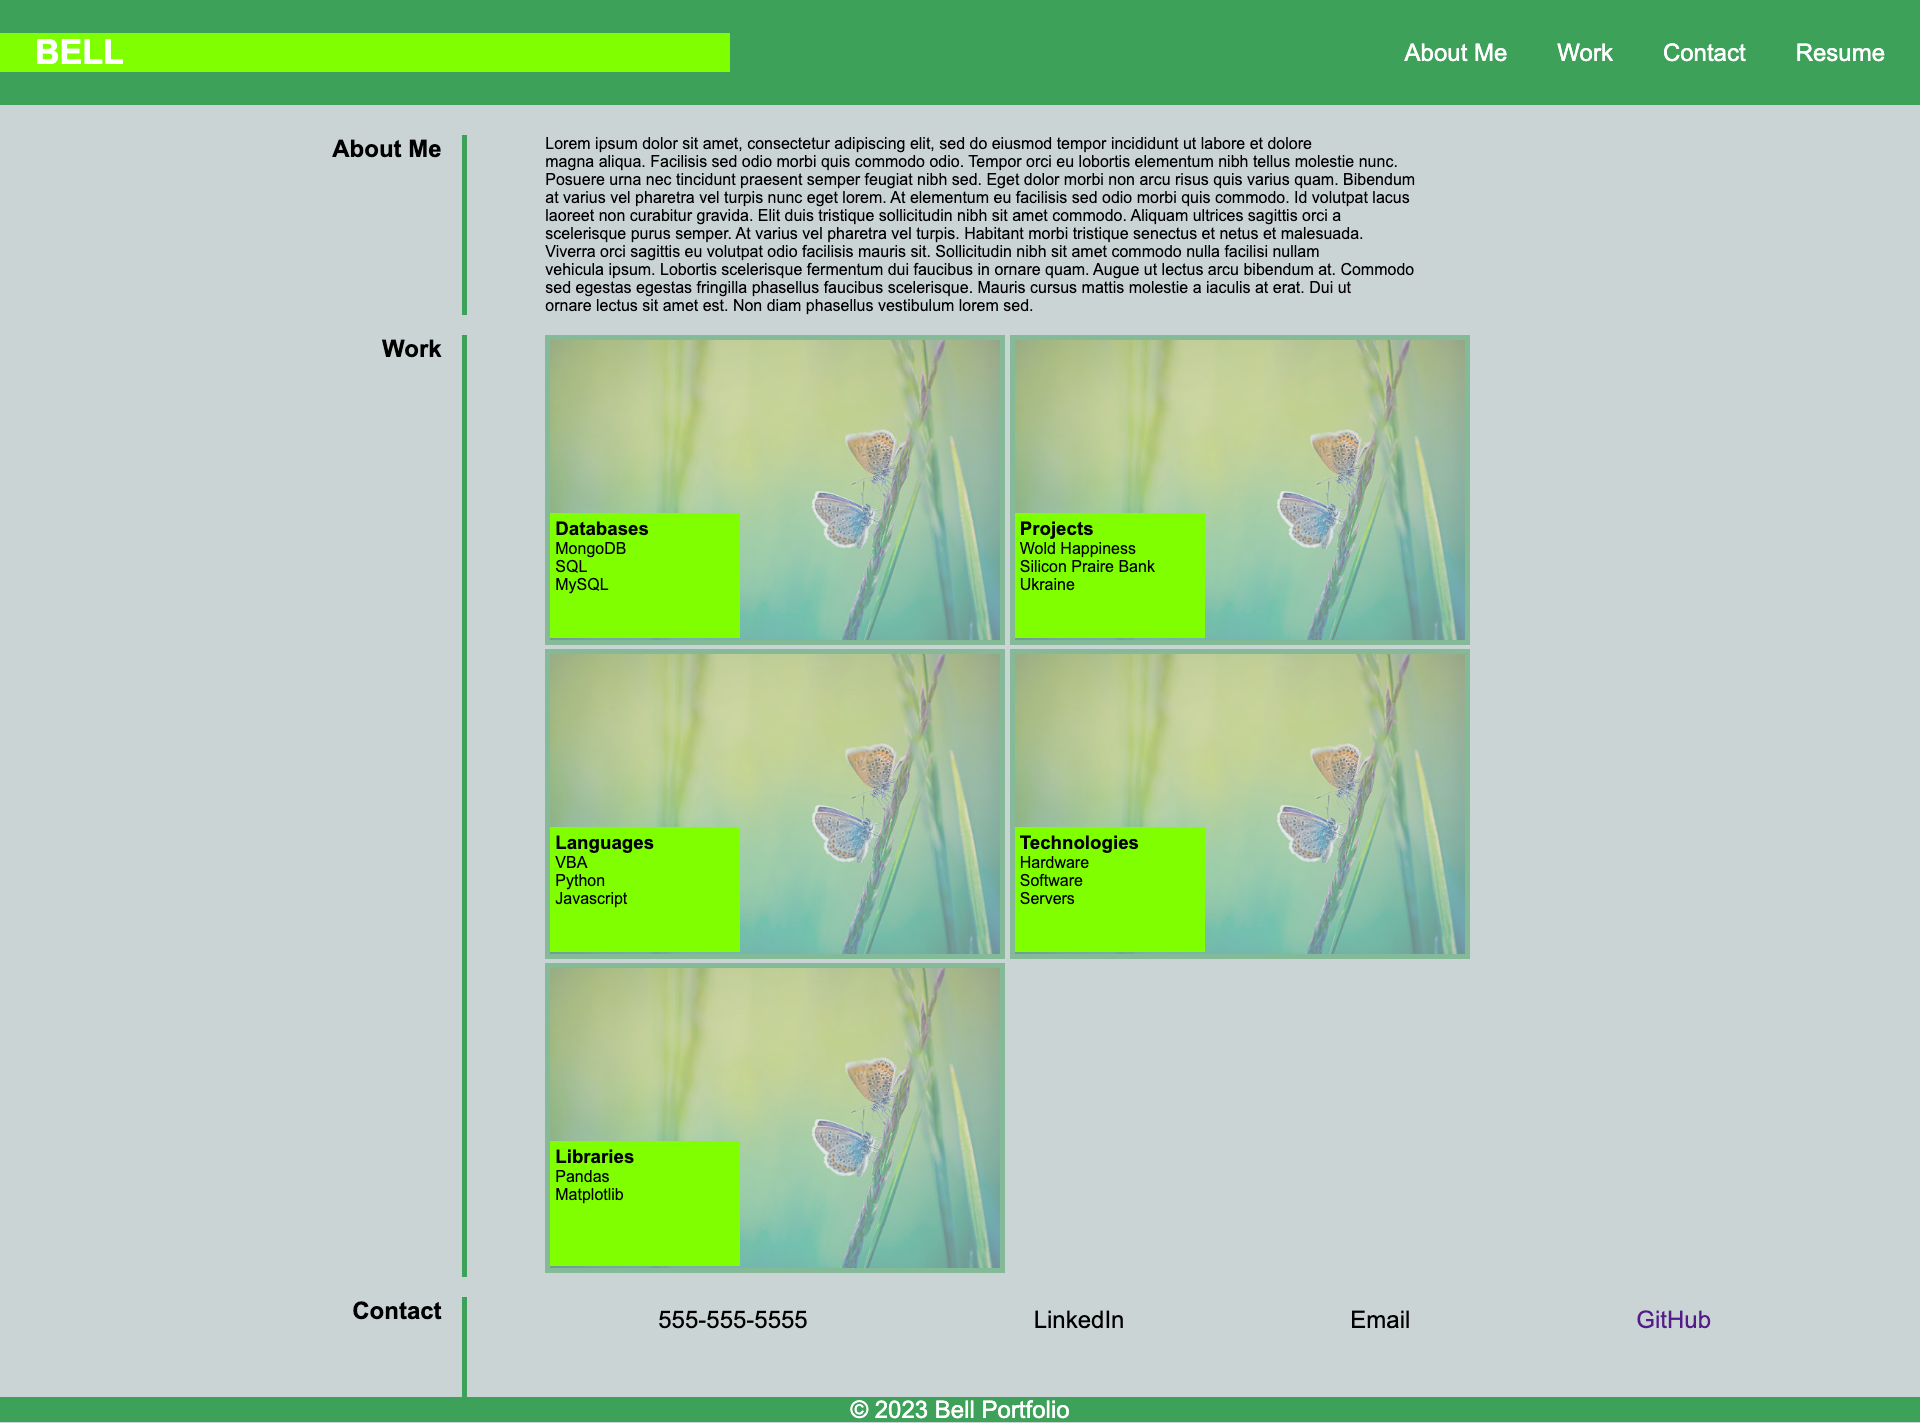
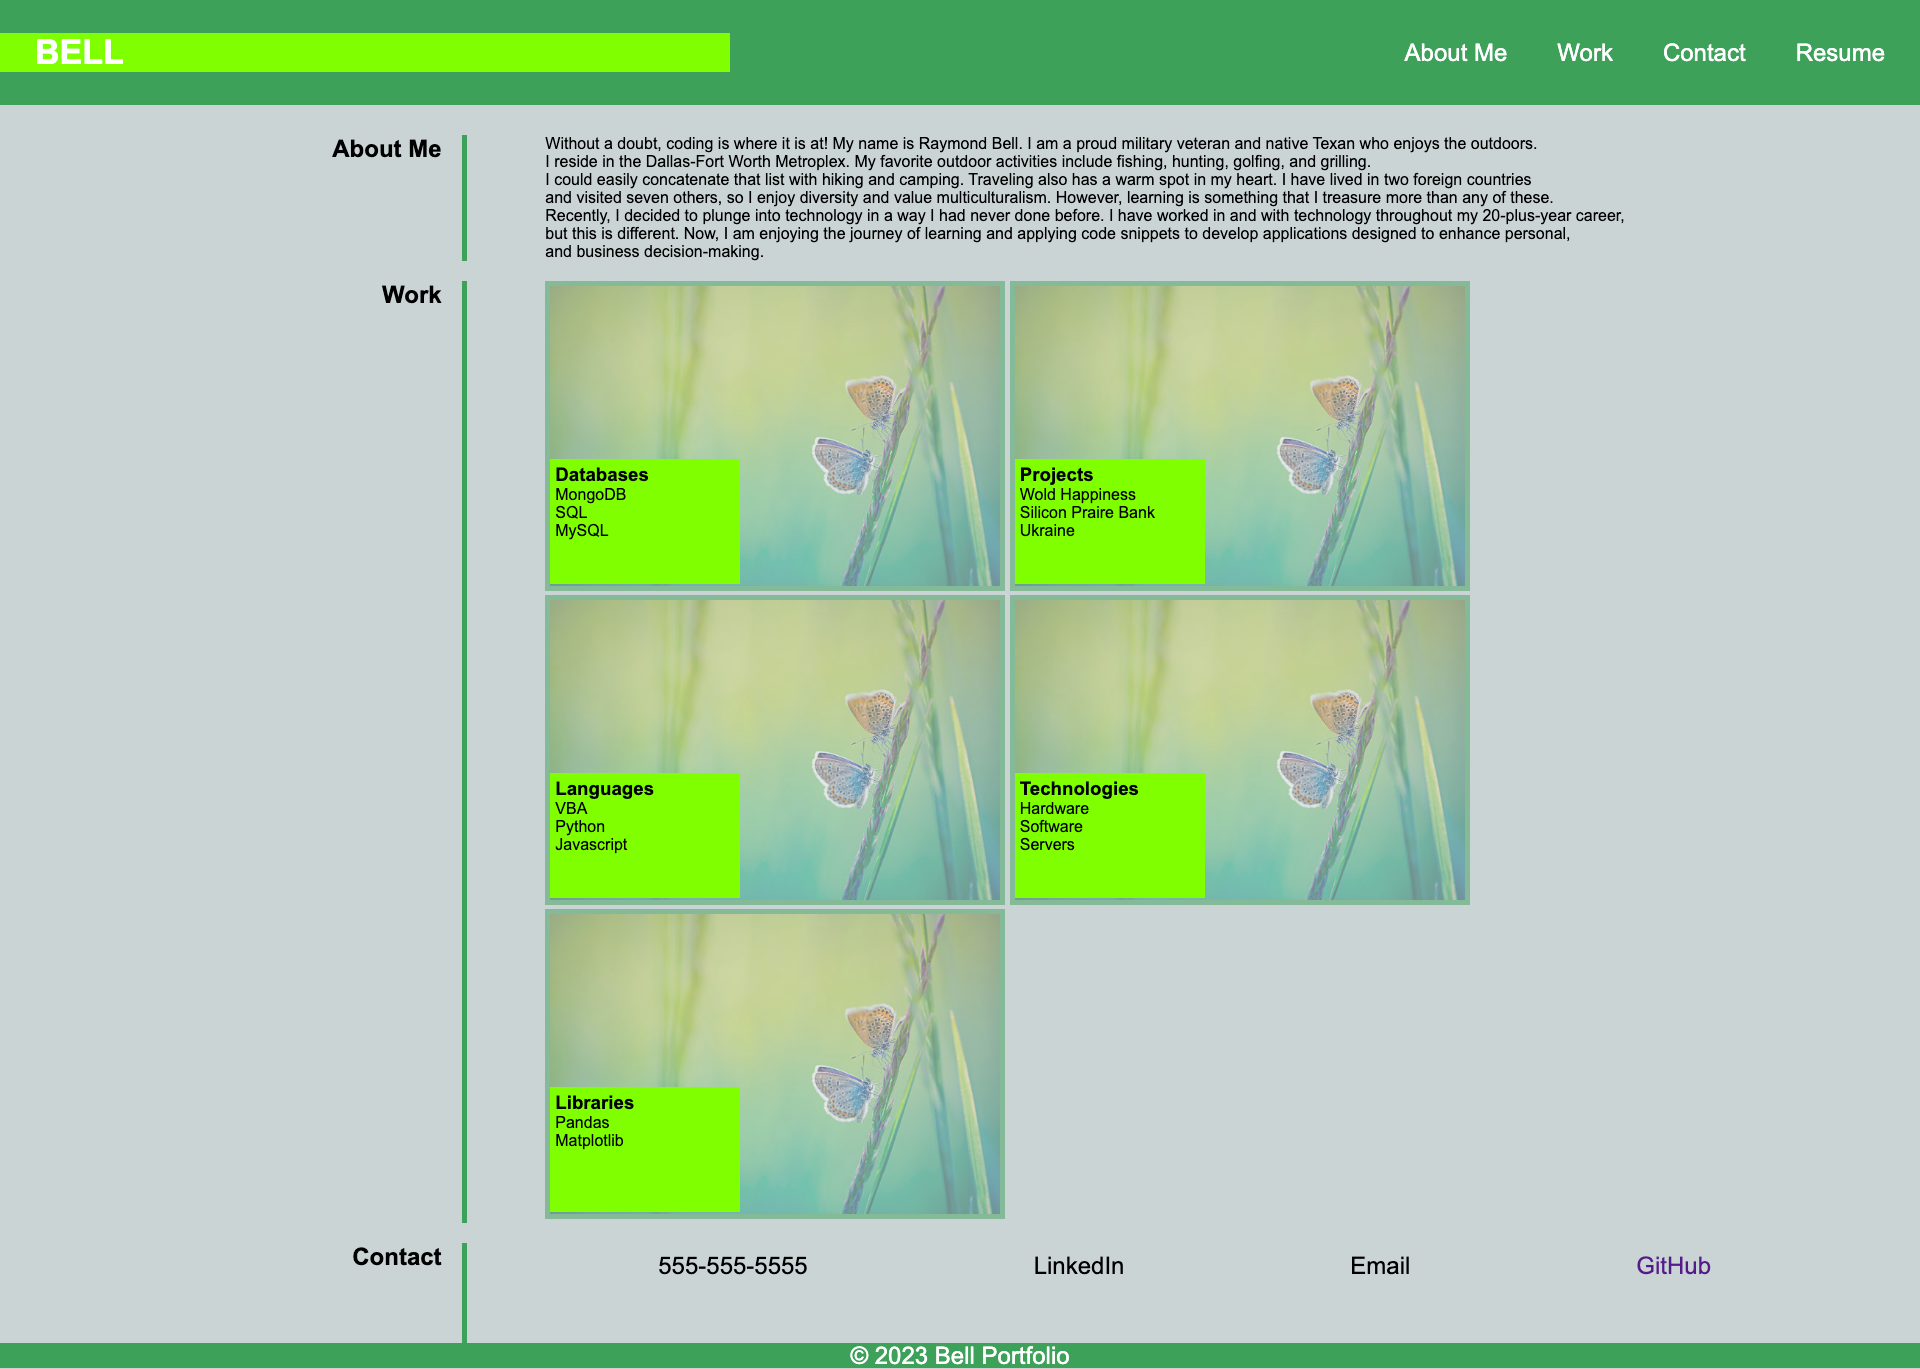
updated about me

diff --git a/index.html b/index.html
@@ -4,22 +4,21 @@
     <meta charset="UTF-8" />
     <meta name="viewport" content="width=device-width, initial-scale=1.0" />
     <link rel="stylesheet" href="styles.css" />
-    <title>Portfolio</title>
+    <title>Bell Portfolio</title>
   </head>
   <!-- Start of navigation section-->
   <header>
-    <nav id="nav-container" >
+    <nav id="nav-container">
       <div id="name-container">
         <h2 id="name">BELL</h2>
       </div>
-      
-        <ul class="nav-list">
-          <a href="#about"><li class="items">About Me</li></a>
-          <a href="#projects"><li class="items">Work</li></a>
-          <a href="#contacts"> <li class="items">Contact</li></a>
-          <a href="#"><li class="items">Resume</li></a>
-        </ul>
-      
+
+      <ul class="nav-list">
+        <a href="#about"><li class="items">About Me</li></a>
+        <a href="#projects"><li class="items">Work</li></a>
+        <a href="#contacts"> <li class="items">Contact</li></a>
+        <a href="#"><li class="items">Resume</li></a>
+      </ul>
     </nav>
   </header>
   <!-- End of navigation section-->
@@ -31,25 +30,24 @@
         <h2>About Me</h2>
         <div>
           <p>
-            Lorem ipsum dolor sit amet, consectetur adipiscing elit, sed do
-            eiusmod tempor incididunt ut labore et dolore <br />
-            magna aliqua. Facilisis sed odio morbi quis commodo odio. Tempor
-            orci eu lobortis elementum nibh tellus molestie nunc.<br />
-            Posuere urna nec tincidunt praesent semper feugiat nibh sed. Eget
-            dolor morbi non arcu risus quis varius quam. Bibendum <br />
-            at varius vel pharetra vel turpis nunc eget lorem. At elementum eu
-            facilisis sed odio morbi quis commodo. Id volutpat lacus <br />
-            laoreet non curabitur gravida. Elit duis tristique sollicitudin nibh
-            sit amet commodo. Aliquam ultrices sagittis orci a <br />
-            scelerisque purus semper. At varius vel pharetra vel turpis.
-            Habitant morbi tristique senectus et netus et malesuada. <br />
-            Viverra orci sagittis eu volutpat odio facilisis mauris sit.
-            Sollicitudin nibh sit amet commodo nulla facilisi nullam <br />
-            vehicula ipsum. Lobortis scelerisque fermentum dui faucibus in
-            ornare quam. Augue ut lectus arcu bibendum at. Commodo <br />
-            sed egestas egestas fringilla phasellus faucibus scelerisque. Mauris
-            cursus mattis molestie a iaculis at erat. Dui ut <br />
-            ornare lectus sit amet est. Non diam phasellus vestibulum lorem sed.
+            Without a doubt, coding is where it is at! My name is Raymond Bell.
+            I am a proud military veteran and native Texan who enjoys the
+            outdoors. <br />
+            I reside in the Dallas-Fort Worth Metroplex. My favorite outdoor
+            activities include fishing, hunting, golfing, and grilling. <br />
+            I could easily concatenate that list with hiking and camping.
+            Traveling also has a warm spot in my heart. I have lived in two
+            foreign countries<br />
+            and visited seven others, so I enjoy diversity and value
+            multiculturalism. However, learning is something that I treasure
+            more than any of these. <br />
+            Recently, I decided to plunge into technology in a way I had never
+            done before. I have worked in and with technology throughout my
+            20-plus-year career,<br />
+            but this is different. Now, I am enjoying the journey of learning
+            and applying code snippets to develop applications designed to
+            enhance personal,<br />
+            and business decision-making.
           </p>
         </div>
       </section>

diff --git a/README.md b/README.md
@@ -7,7 +7,7 @@ This project entailed creating a webpage that warehouses information about me, g
 - This project was inspiring because it afforded another opportunity to exercise and showcase continued development of relevant skills.
 - Tech industry employers value relevant work experience and proficiency.
 - This site provides colleagues and employers internet access to my professional profile.
-- E-based portfolios is the norm, especially in the tech industry.
+- E-based portfolios are the norm, especially in the tech industry.
 
 ## Table of Contents
 
@@ -21,7 +21,7 @@ This project entailed creating a webpage that warehouses information about me, g
 2. Visit the address listed below.
 3. Click a link on the navigation bar to view additional information.
 
-Web address:  
+Web address: https://g6-2flyy.github.io/bell-portfolio/  
 
 ![alt text](./images/bell-portfolio.png)
     
